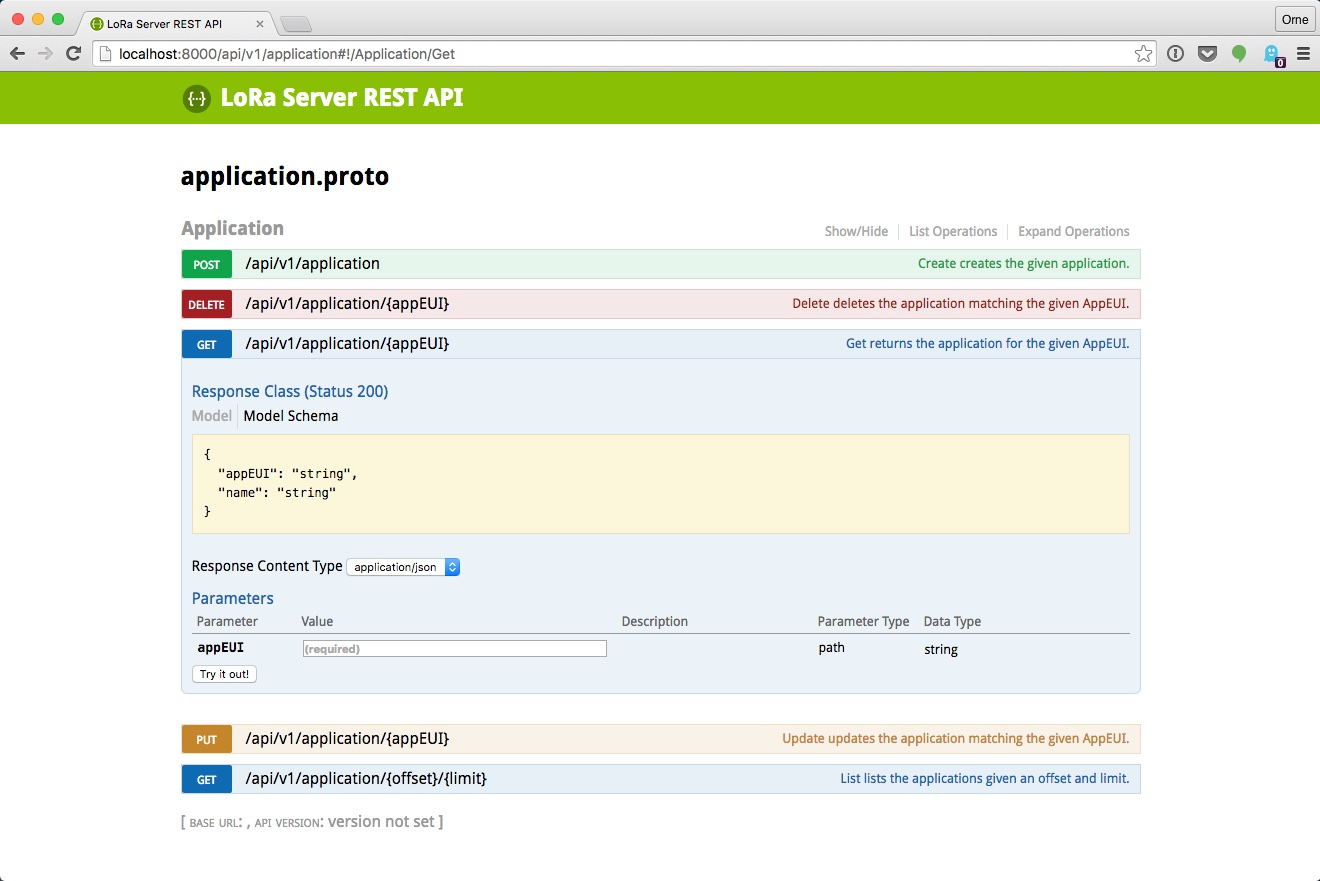
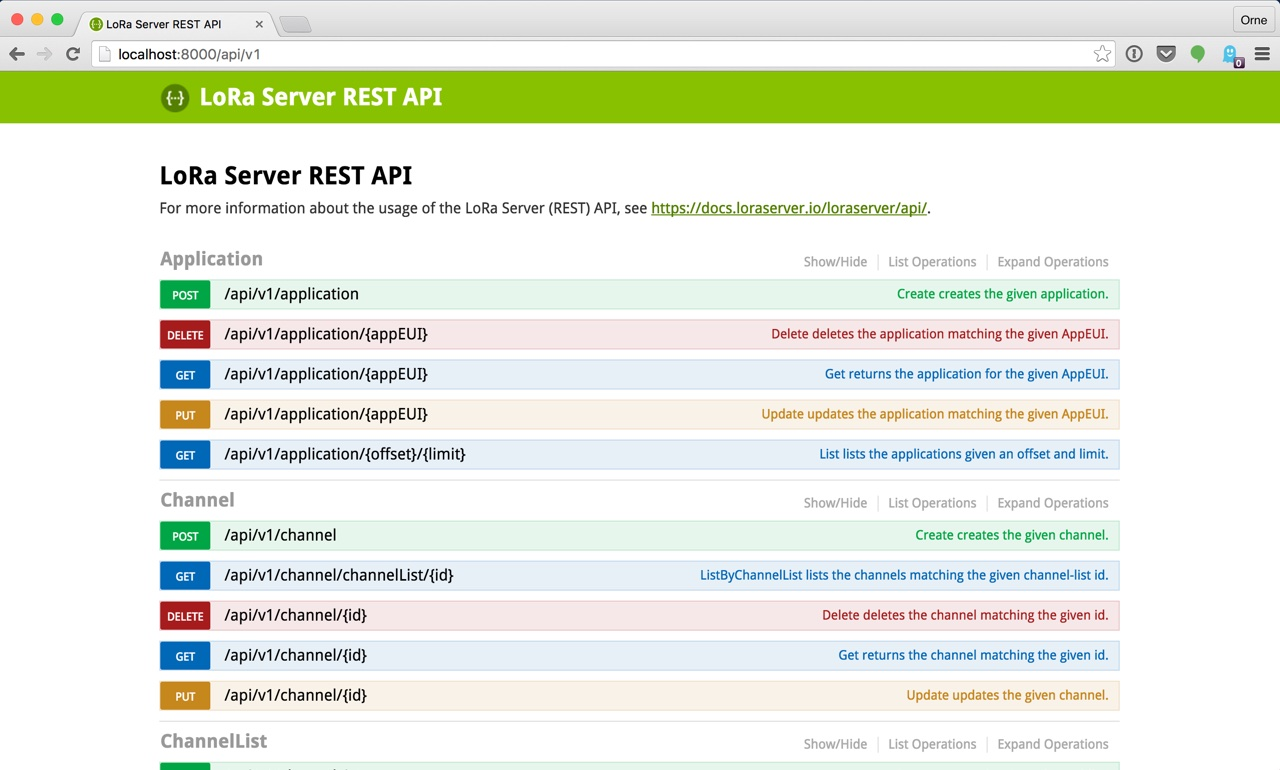
Update documentation.

Changed region(s): [[0.0, 0.0, 1.0, 1.0]]

diff --git a/docs/api.md b/docs/api.md
@@ -69,9 +69,9 @@ The following clients are available:
 
 ## RESTful JSON interface
 
-Since gRPC [can't be used in browsers](http://www.grpc.io/faq/), LoRa Server
-provides a RESTful JSON interface (by using [grpc-gateway](https://github.com/grpc-ecosystem/grpc-gateway))
-on top of the gRPC interface, exposing the same API methods as the gRPC API.
-The JSON API documentation can be found at `/api/v1`.
+Since gRPC [can't be used in browsers yet](http://www.grpc.io/faq/), LoRa Server
+provides a RESTful JSON API (by using [grpc-gateway](https://github.com/grpc-ecosystem/grpc-gateway))
+on top of the gRPC API, exposing the same API methods as the gRPC API.
+The REST API documentation and interactive console can be found at `/api/v1`.
 
 ![Swagger API](img/swaggerapi.jpg)

diff --git a/docs/changelog.md b/docs/changelog.md
@@ -1,5 +1,17 @@
 # Changelog
 
+## 0.9.0
+
+**WARNING:** if you're using the JSON-RPC interface, this will be a breaking
+upgrade, as the JSON-RPC API has been replaced by a gRPC API.
+
+In order to keep the possiblity to access the API from web-based applications
+(e.g. the web-interface), a RESTful JSON API has been implemented on top
+of the gRPC API (using [grpc-gateway](https://github.com/grpc-ecosystem/grpc-gateway)).
+
+Please refer to the LoRa Server documentation for more information:
+[https://docs.loraserver.io/loraserver/api/](https://docs.loraserver.io/loraserver/api/).
+
 ## 0.8.2
 
 * Validate the join-request DevEUI belongs to the given AppEUI
